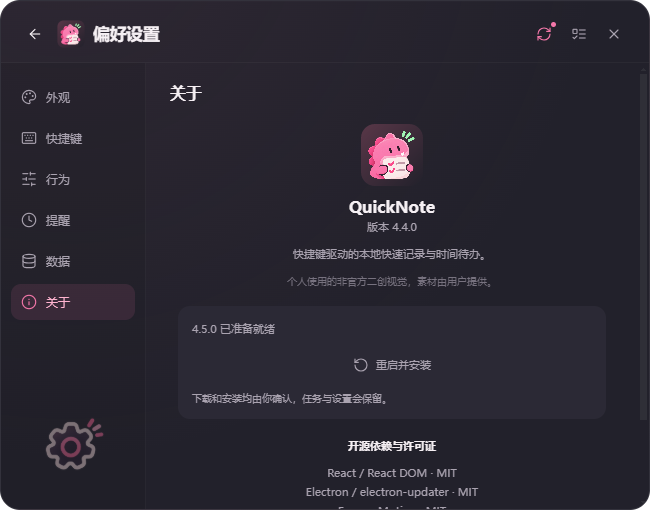
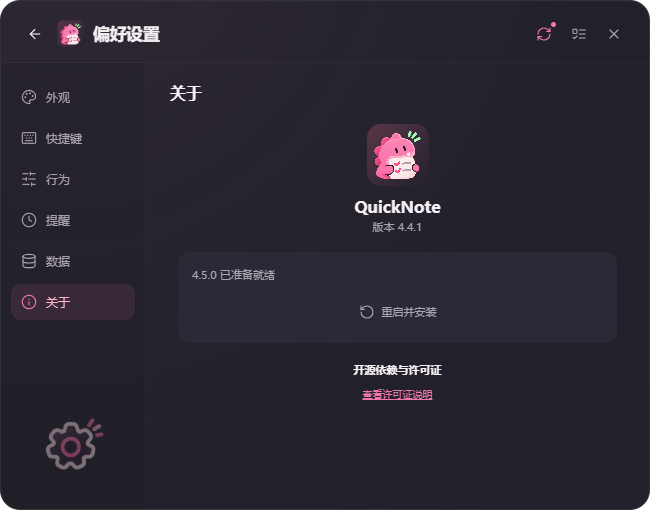
Add preferred default page and trim settings copy

diff --git a/src/main.tsx b/src/main.tsx
@@ -29,7 +29,7 @@ const editor=<textarea ref={input} rows={2} placeholder={cfg.capturePlaceholder|
 function row(n:Note,compact=false){return <motion.div layout data-task={n.id} className={'task '+(n.done?'done ':'')+(n.isPinned?'pinned':'')} key={n.id} initial={{opacity:0,y:4}} animate={{opacity:1,y:0}} exit={{opacity:0,height:0}} transition={{duration:.18}} onContextMenu={e=>{e.preventDefault();api.call('context',n.id)}}><button className="check" title="切换完成" onClick={()=>toggle(n.id)}>{n.done&&<Check/>}</button><div className="task-body"><p>{n.isPinned&&<Pin className="pink"/>}{n.text}</p><small>{n.dueDate?<><CalendarDays/> {n.dueDate}{n.dueDate<day(now)&&!n.done?' · 计划待重排':''}</>:new Date(n.created).toLocaleString('zh-CN',{month:'numeric',day:'numeric',hour:'2-digit',minute:'2-digit'})}</small></div><div className="actions"><button title={n.isPinned?'取消置顶':'重要置顶'} onClick={()=>pin(n.id)}><Pin/></button>{!compact&&<button title="计划日期" onClick={()=>SD(schedule===n.id?'':n.id)}><CalendarDays/></button>}<button title="编辑" onClick={()=>start(n.id)}><Pencil/></button><button title="复制" onClick={()=>{api.call('copy',n.text);msg('已复制')}}><Copy/></button><button title="删除" onClick={()=>remove(n.id)}><Trash2/></button></div></motion.div>}
 async function updateAction(action:string){try{await flush();const d=await api.call(action);C((prev:any)=>({...prev,update:d.update}))}catch(e){msg(String(e))}}
 return <motion.main data-theme={theme} className={mode} animate={{opacity:visible?1:0,scale:visible?1:.99,y:visible?0:-4}} transition={{duration:.2,ease:'easeOut'}}><header><div className="brand">{mode!=='capture'&&<button title="快速记录" onClick={()=>switchView('capture')}><ArrowLeft/></button>}<img src={theme==='light'?'./app-icon-light.png':'./app-icon.png'} alt=""/><span>{mode==='capture'?<>Quick<span className="pink">Note</span></>:mode==='tasks'?'待办事项':'偏好设置'}</span>{mode==='tasks'&&<small>{notes.filter(n=>!n.done).length}</small>}</div><div className="tools">{['available','downloading','downloaded','error'].includes(cfg.update?.status)&&<button className="update-indicator" title={cfg.update.status==='error'?'更新检查失败 · 点击重试':'QuickNote 有更新 · 点击查看'} onClick={()=>{ST('about');switchView('settings')}}><RefreshCw/><i/></button>}{mode!=='tasks'&&<button title="查看待办" onClick={()=>switchView('tasks')}><ListTodo/></button>}{mode==='tasks'&&<button title="打开日历" onClick={()=>B(filter==='日历'?'全部':'日历')}><CalendarDays/></button>}{mode!=='settings'&&<button title="设置" onClick={()=>switchView('settings')}><Settings/></button>}<button title="关闭" onClick={()=>{flush();api.call('hide')}}><X/></button></div></header>
-{mode==='capture'?<section className="capture-body"><img className="capture-mascot" src="./brand/mascot.png" alt=""/><div className={'capture-input '+(toast?.text==='已保存'?'saved':'')}>{editor}<DatesFields compact value={creation} onChange={changeCreation}/></div></section>:mode==='tasks'?<TimeWorkspace notes={notes} filter={filter} onFilter={v=>{B(v);let dueDate:string|null=null;const d=new Date();if(v==='今天')dueDate=day(d);if(v==='即将到来')dueDate=tomorrow(d);if(v==='日历')dueDate=calendarDate;changeCreation({...emptyDates,dueDate,schedule:v==='以后'?'later':v==='任意时间'?'anytime':'inbox'})}} onEdit={TE} onToggle={toggle} onPin={pin} onDelete={remove} onCopy={s=>{api.call('copy',s);msg('已复制')}} editor={<div className="task-capture">{editor}<DatesFields compact value={creation} onChange={changeCreation}/></div>} now={now} horizon={cfg.deadlineHorizon||3} onDate={d=>{CAL(d);changeCreation({...emptyDates,dueDate:d})}} onNew={openNewTask}/>:<div className="split"><nav>{settingTabs.map(([key,label,Icon])=><button key={key} className={settingsTab===key?'selected':''} onClick={()=>ST(key)}><Icon/>{label}</button>)}<img className="nav-mascot" src="./brand/settings.png" alt=""/></nav><section className="settings-body"><h2>{settingTabs.find(t=>t[0]===settingsTab)?.[1]}</h2>{settingsTab==='appearance'?<><p className="muted">让 QuickNote 与你的桌面相处融洽。</p><div className="theme-choices">{[['dark','深色',Moon],['light','浅色',Sun],['system','跟随系统',Monitor]].map(([v,label,Icon]:any)=><button key={v} className={cfg.theme===v?'chosen':''} onClick={()=>setting({theme:v})}><Icon/><span>{label}</span></button>)}</div><label className="placeholder-setting">快速记录占位文字<input maxLength={100} aria-label="快速记录占位文字" defaultValue={cfg.capturePlaceholder||'记录一件未完成的事情...'} onBlur={e=>setting({capturePlaceholder:e.target.value.trim()||'记录一件未完成的事情...'})}/><small>编辑后离开输入框即保存</small></label><div className="brand-preview"><img src="./brand/mascot.png" alt=""/><div><b>轻轻记下，慢慢完成。</b><p>QuickNote · Pink Edition</p></div></div></>:settingsTab==='shortcuts'?<><p className="muted">点击组合键，再按下新的快捷键。</p>{[['shortcut','快速记录',Pencil],['tasksShortcut','查看待办',ListTodo]].map(([key,label,Icon]:any)=>{const status=cfg.shortcutStatus?.[key];return <div className="shortcut-card" key={key}><div className="setting-row"><span><Icon/>{label}</span><button className={'keycap '+(recording===key?'listening':'')} onClick={()=>R(key)} onKeyDown={e=>{if(recording===key)hotkey(e,key)}}>{recording===key?'请按下组合键…':cfg[key]?.replaceAll('Control','Ctrl')}</button></div><div className={'registration '+(status?.registered?'success':status?.status==='conflict'?'warning':'error')}>{status?.registered?<Check/>:<Info/>}{status?.registered?'已成功注册':status?.message||'未注册'}</div></div>})}<button className="secondary" onClick={()=>api.call('retry-shortcuts').then(load).catch(e=>msg(String(e)))}><RefreshCw/>重新检测并注册</button></>:settingsTab==='behavior'?<>{[['startup','开机启动'],['background','启动后后台运行'],['keepOpen','保存后保持窗口打开'],['hideOnBlur','点击窗口外部自动隐藏']].map(([key,label])=><div className="setting-row option" key={key}><span>{label}</span><button role="switch" aria-label={label} aria-checked={!!cfg[key]} className={'toggle '+(cfg[key]?'on':'')} onClick={()=>setting({[key]:!cfg[key]})}><span/></button></div>)}</>:settingsTab==='reminders'?<><p className='muted'>提醒仅在 QuickNote 运行时发送；退出后不会发送。重启后恢复待触发提醒。</p><div className='setting-row option'><span>启用 Windows 通知</span><button role='switch' aria-label='启用通知' aria-checked={!!cfg.notificationsEnabled} className={'toggle '+(cfg.notificationsEnabled?'on':'')} onClick={()=>setting({notificationsEnabled:!cfg.notificationsEnabled})}><span/></button></div><label className='setting-row'>即将截止范围（自然日）<input type='number' min='1' max='14' value={cfg.deadlineHorizon||3} onChange={e=>setting({deadlineHorizon:Number(e.target.value)})}/></label><button className='secondary' onClick={()=>api.call('notification-test').then(()=>msg('已请求发送通知，请检查系统通知设置')).catch(e=>msg(String(e)))}>测试通知</button></>:settingsTab==='data'?<><div className="backup-info"><Archive/><div><b>每日自动备份</b><p>最近备份：{cfg.lastBackup||'尚无备份'} · 保留最近 7 份</p></div></div>{cfg.backupWarning&&<p className="warning">{cfg.backupWarning}</p>}<div className="data-grid">{[['export','导出全部数据',Archive],['import','导入记录',Database],['restore','从备份恢复',RotateCcw],['path','打开保存位置',FolderOpen]].map(([a,label,Icon]:any)=><button key={a} onClick={()=>dataAction(a)}><Icon/>{label}</button>)}</div><p className="muted">恢复前校验版本与记录，并备份当前数据。导入只合并任务；恢复会替换任务、设置与草稿。</p></>:<div className="about"><img src={theme==='light'?'./app-icon-light.png':'./app-icon.png'} alt="QuickNote"/><h2>QuickNote</h2><span>版本 {cfg.version||'4.0.0'}</span><p>快捷键驱动的本地快速记录与时间待办。</p><small>个人使用的非官方二创视觉，素材由用户提供。</small><UpdateCard state={cfg.update||{status:'idle'}} run={updateAction}/><h3>开源依赖与许可证</h3><p>React / React DOM · MIT<br/>Electron / electron-updater · MIT<br/>Framer Motion · MIT<br/>Lucide · ISC<br/>Vite · MIT / TypeScript · Apache-2.0</p><a href="./licenses.txt" target="_blank" onClick={e=>{e.preventDefault();api.call('licenses').catch(e=>msg(String(e)))}}>查看许可证说明</a></div>}</section></div>}
+{mode==='capture'?<section className="capture-body"><img className="capture-mascot" src="./brand/mascot.png" alt=""/><div className={'capture-input '+(toast?.text==='已保存'?'saved':'')}>{editor}<DatesFields compact value={creation} onChange={changeCreation}/></div></section>:mode==='tasks'?<TimeWorkspace notes={notes} filter={filter} onFilter={v=>{B(v);let dueDate:string|null=null;const d=new Date();if(v==='今天')dueDate=day(d);if(v==='即将到来')dueDate=tomorrow(d);if(v==='日历')dueDate=calendarDate;changeCreation({...emptyDates,dueDate,schedule:v==='以后'?'later':v==='任意时间'?'anytime':'inbox'})}} onEdit={TE} onToggle={toggle} onPin={pin} onDelete={remove} onCopy={s=>{api.call('copy',s);msg('已复制')}} editor={<div className="task-capture">{editor}<DatesFields compact value={creation} onChange={changeCreation}/></div>} now={now} horizon={cfg.deadlineHorizon||3} onDate={d=>{CAL(d);changeCreation({...emptyDates,dueDate:d})}} onNew={openNewTask}/>:<div className="split"><nav>{settingTabs.map(([key,label,Icon])=><button key={key} className={settingsTab===key?'selected':''} onClick={()=>ST(key)}><Icon/>{label}</button>)}<img className="nav-mascot" src="./brand/settings.png" alt=""/></nav><section className="settings-body"><h2>{settingTabs.find(t=>t[0]===settingsTab)?.[1]}</h2>{settingsTab==='appearance'?<><div className="theme-choices">{[['dark','深色',Moon],['light','浅色',Sun],['system','跟随系统',Monitor]].map(([v,label,Icon]:any)=><button key={v} className={cfg.theme===v?'chosen':''} onClick={()=>setting({theme:v})}><Icon/><span>{label}</span></button>)}</div><label className="placeholder-setting">快速记录占位文字<input maxLength={100} aria-label="快速记录占位文字" defaultValue={cfg.capturePlaceholder||'记录一件未完成的事情...'} onBlur={e=>setting({capturePlaceholder:e.target.value.trim()||'记录一件未完成的事情...'})}/></label><div className="brand-preview"><img src="./brand/mascot.png" alt=""/><div><b>轻轻记下，慢慢完成。</b><p>QuickNote · Pink Edition</p></div></div></>:settingsTab==='shortcuts'?<><p className="muted">点击组合键，再按下新的快捷键。</p>{[['shortcut','快速记录',Pencil],['tasksShortcut','查看待办',ListTodo]].map(([key,label,Icon]:any)=>{const status=cfg.shortcutStatus?.[key];return <div className="shortcut-card" key={key}><div className="setting-row"><span><Icon/>{label}</span><button className={'keycap '+(recording===key?'listening':'')} onClick={()=>R(key)} onKeyDown={e=>{if(recording===key)hotkey(e,key)}}>{recording===key?'请按下组合键…':cfg[key]?.replaceAll('Control','Ctrl')}</button></div><div className={'registration '+(status?.registered?'success':status?.status==='conflict'?'warning':'error')}>{status?.registered?<Check/>:<Info/>}{status?.registered?'已成功注册':status?.message||'未注册'}</div></div>})}<button className="secondary" onClick={()=>api.call('retry-shortcuts').then(load).catch(e=>msg(String(e)))}><RefreshCw/>重新检测并注册</button></>:settingsTab==='behavior'?<><label className="setting-row option">默认打开<select aria-label="默认打开" value={cfg.defaultView||'tasks'} onChange={e=>setting({defaultView:e.target.value})}><option value="tasks">待办事项</option><option value="capture">快速记录</option></select></label>{[['startup','开机启动'],['background','启动后后台运行'],['keepOpen','保存后保持窗口打开'],['hideOnBlur','点击窗口外部自动隐藏']].map(([key,label])=><div className="setting-row option" key={key}><span>{label}</span><button role="switch" aria-label={label} aria-checked={!!cfg[key]} className={'toggle '+(cfg[key]?'on':'')} onClick={()=>setting({[key]:!cfg[key]})}><span/></button></div>)}</>:settingsTab==='reminders'?<><p className='muted'>提醒仅在 QuickNote 运行时发送；退出后不会发送。重启后恢复待触发提醒。</p><div className='setting-row option'><span>启用 Windows 通知</span><button role='switch' aria-label='启用通知' aria-checked={!!cfg.notificationsEnabled} className={'toggle '+(cfg.notificationsEnabled?'on':'')} onClick={()=>setting({notificationsEnabled:!cfg.notificationsEnabled})}><span/></button></div><label className='setting-row'>即将截止范围（自然日）<input type='number' min='1' max='14' value={cfg.deadlineHorizon||3} onChange={e=>setting({deadlineHorizon:Number(e.target.value)})}/></label><button className='secondary' onClick={()=>api.call('notification-test').then(()=>msg('已请求发送通知，请检查系统通知设置')).catch(e=>msg(String(e)))}>测试通知</button></>:settingsTab==='data'?<><div className="backup-info"><Archive/><div><b>每日自动备份</b><p>最近备份：{cfg.lastBackup||'尚无备份'} · 保留最近 7 份</p></div></div>{cfg.backupWarning&&<p className="warning">{cfg.backupWarning}</p>}<div className="data-grid">{[['export','导出全部数据',Archive],['import','导入记录',Database],['restore','从备份恢复',RotateCcw],['path','打开保存位置',FolderOpen]].map(([a,label,Icon]:any)=><button key={a} onClick={()=>dataAction(a)}><Icon/>{label}</button>)}</div><p className="muted">恢复前校验版本与记录，并备份当前数据。导入只合并任务；恢复会替换任务、设置与草稿。</p></>:<div className="about"><img src={theme==='light'?'./app-icon-light.png':'./app-icon.png'} alt="QuickNote"/><h2>QuickNote</h2><span>版本 {cfg.version||'4.0.0'}</span><UpdateCard state={cfg.update||{status:'idle'}} run={updateAction}/><h3>开源依赖与许可证</h3><a href="./licenses.txt" target="_blank" onClick={e=>{e.preventDefault();api.call('licenses').catch(e=>msg(String(e)))}}>查看许可证说明</a></div>}</section></div>}
 {taskEdit&&<TaskEditor key={taskEdit.id||'new'} task={taskEdit} onSave={saveTask} onClose={()=>TE(null)}/>}<AnimatePresence>{toast&&<motion.div className="toast" initial={{opacity:0,y:12}} animate={{opacity:1,y:0}} exit={{opacity:0,y:8}}><Check/><span>{toast.text}</span>{toast.undo&&<button onClick={restoreUndo}><Undo2/>撤销</button>}<button title="关闭提示" onClick={()=>F(null)}><X/></button></motion.div>}</AnimatePresence></motion.main>};createRoot(document.getElementById('root')!).render(<App/>);
 
 

diff --git a/src/UpdateCard.tsx b/src/UpdateCard.tsx
@@ -3,6 +3,6 @@ import {RefreshCw,Download,RotateCcw} from 'lucide-react';
 export type UpdateState={status:string;version?:string|null;percent?:number;error?:string|null};
 export function UpdateCard({state,run}:{state:UpdateState;run:(action:string)=>void}) {
   const s=state.status,busy=['checking','downloading','installing'].includes(s);
-  const message=s==='disabled'?'开发模式不检查更新':s==='checking'?'正在检查更新…':s==='current'?'已是最新版本':s==='available'?`发现新版本 ${state.version}`:s==='downloading'?`正在下载 ${state.percent||0}%`:s==='downloaded'?`${state.version} 已准备就绪`:s==='installing'?'正在启动安装程序…':s==='error'?state.error:'启动后自动检查，也可手动检查更新';
-  return <section className="update-card" aria-label="软件更新"><p aria-live="polite">{message}</p>{s==='downloading'&&<progress aria-label="更新下载进度" max={100} value={state.percent||0}/>}{s!=='disabled'&&<button className="secondary" disabled={busy} onClick={()=>run(s==='available'?'update-download':s==='downloaded'?'update-install':'update-check')}>{s==='available'?<Download/>:s==='downloaded'?<RotateCcw/>:<RefreshCw/>}{s==='available'?'下载更新':s==='downloaded'?'重启并安装':s==='checking'?'正在检查…':s==='downloading'?'正在下载…':'检查更新'}</button>}<small>下载和安装均由你确认，任务与设置会保留。</small></section>;
+  const message=s==='disabled'?'开发模式':s==='checking'?'正在检查更新…':s==='current'?'已是最新版本':s==='available'?`发现新版本 ${state.version}`:s==='downloading'?`正在下载 ${state.percent||0}%`:s==='downloaded'?`${state.version} 已准备就绪`:s==='installing'?'正在启动安装程序…':s==='error'?state.error:'';
+  return <section className="update-card" aria-label="软件更新">{message&&<p aria-live="polite">{message}</p>}{s==='downloading'&&<progress aria-label="更新下载进度" max={100} value={state.percent||0}/>}{s!=='disabled'&&<button className="secondary" disabled={busy} onClick={()=>run(s==='available'?'update-download':s==='downloaded'?'update-install':'update-check')}>{s==='available'?<Download/>:s==='downloaded'?<RotateCcw/>:<RefreshCw/>}{s==='available'?'下载更新':s==='downloaded'?'重启并安装':s==='checking'?'正在检查…':s==='downloading'?'正在下载…':'检查更新'}</button>}</section>;
 }

diff --git a/src/time.css b/src/time.css
@@ -8,3 +8,5 @@
 .deadline-view>.list{padding-top:12px}.deadline-group{border-left:0;margin-left:0;padding-left:0;padding-bottom:12px}.deadline-group h3{gap:8px;font-size:12px;color:var(--muted);padding-bottom:9px;border-bottom:1px solid var(--line);margin:10px 0 5px}.deadline-group.deadline-overdue h3{color:#dc718b}.deadline-group h3 .node{display:none}.deadline-group h3 small{margin-left:auto;background:transparent;color:var(--subtle);padding:0}.deadline-group .task{min-height:40px;align-items:flex-start;padding:10px 8px}.deadline-group .task-body{padding-right:6px}.deadline-remaining{font-size:10px;color:var(--muted);white-space:nowrap;line-height:19px;flex-shrink:0;font-variant-numeric:tabular-nums}.deadline-remaining.deadline-overdue{color:#dc718b}.deadline-group .task:hover .deadline-remaining,.deadline-group .task:focus-within .deadline-remaining{visibility:hidden}.today-star{color:var(--accent);font-size:16px;line-height:1}.when-shortcuts .today-star{color:var(--accent);font-size:19px}.anytime-list{padding-top:4px}
 
 .update-card{margin:18px 0;text-align:left;background:var(--card);padding:14px;border-radius:12px}.update-card p{margin:0 0 10px}.update-card small{display:block;margin-top:10px;font-size:10px;color:var(--muted)}.update-card progress{width:100%;height:5px;accent-color:var(--accent);margin-bottom:10px}.update-card .secondary{margin:0 auto}.update-indicator{position:relative;color:var(--accent)}.update-indicator i{position:absolute;right:3px;top:3px;width:5px;height:5px;border-radius:50%;background:var(--accent)}
+
+.setting-row select{font:inherit;color:var(--fg);background:var(--card);border:1px solid var(--line);border-radius:8px;padding:6px 9px;outline-color:var(--accent)}

diff --git a/docs/TEST_REPORT.md b/docs/TEST_REPORT.md
@@ -1,9 +1,9 @@
-# QuickNote 4.4.0 回归测试
+# QuickNote 4.4.1 回归测试
 
 日期：2026-11-08。构建：npm run build。回归：npm test。全部使用独立临时 userData，不修改真实记录。
 
 - 13 项 Node 单元测试：旧数据迁移、草稿/原子存储、备份保留及恢复校验、计划/截止独立、截止时刻边界、提醒去重、本地日期跨周跨年、日期摘要、月份分组、自然日倒计时、任意时间汇总。
-- 11 组 Electron 实际运行检查：updates-feed、updates-ui、deadline-simple、date-labels、when、features、schedule、deadline、popover、restore4、check-menu。
+- 12 组 Electron 实际运行检查：default-view、updates-feed、updates-ui、deadline-simple、date-labels、when、features、schedule、deadline、popover、restore4、check-menu。
 - 新版检查：Deadline 无顶部搜索/筛选/排序，逾期置首、月份横线分组、右侧倒计时、无重复日期元信息；任意时间平铺显示全部未完成任务（包括以后和已有计划）；Today 星标出现在日期选择/月历，选中后仍写入正确日期；完成后排除并保留原记录。
 - 原有检查：快速记录/连续输入、组合输入保护、草稿/自定义占位文字持久化、右下角日期浮层和左侧标签、分类默认日期、全局快捷键注册与回调切换、焦点、Esc/失焦、三主题、搜索、复制、置顶、编辑、完成/删除撤销、导入导出与确认恢复、托盘菜单图标。
 - 新增的窗口测试显式销毁测试窗口后退出，避免收尾阶段的窗口关闭拦截影响后续测试；输入测试等待 React 接收文本后再发送 Enter。
@@ -26,3 +26,11 @@
 ![更新界面示例](images/updates.png)
 
 发布后公开 GitHub 更新源实测通过：按4.3.1版本身份读取打包配置，识别4.4.0及正确安装包和SHA512元数据；未执行覆盖安装。
+
+4.4.1文案清理：TypeScript/Vite构建、现有日期标签/占位文字及更新界面Electron检查；未改任务结构、更新逻辑或许可证文件。
+
+4.4.1新增默认打开选项：持久化、旧数据兼容、托盘点击/重复启动与明确入口独立测试。
+
+默认页面回归及完整测试通过：13项单元测试、12组Electron检查。修复显示后立即退出时延迟焦点回调访问已销毁窗口的问题。
+
+![默认打开](images/behavior.png)

diff --git a/README.md b/README.md
@@ -1,6 +1,6 @@
 # QuickNote
 
-Windows 本地快速记录与时间待办工具。Electron + React + TypeScript + Vite，无账号和云同步。当前版本 **4.4.0**。
+Windows 本地快速记录与时间待办工具。Electron + React + TypeScript + Vite，无账号和云同步。当前版本 **4.4.1**。
 
 ![Quick Capture](docs/images/capture.png)
 
@@ -30,7 +30,7 @@ npm run build
 npm run dist
 ```
 
-NSIS 输出 release/4.4.0，安装包与 node_modules/dist 均不提交 Git。未配置代码签名。图标构建：node assets/build4.cjs。
+NSIS 输出 release/4.4.1，安装包与 node_modules/dist 均不提交 Git。未配置代码签名。图标构建：node assets/build4.cjs。
 
 ## 本地数据
 
@@ -83,3 +83,9 @@ node_modules/.bin/electron tests/github-update-check.cjs
 ```
 
 实现参照 [electron-builder v26 自动更新文档](https://www.electron.build/v26/docs/features/auto-update/)。
+
+4.4.1：精简外观与关于页的说明性小字，保留更新状态、操作与许可证入口。
+
+设置→行为→默认打开：可选择待办事项或快速记录（默认待办）。点击托盘图标、重复启动或非后台启动使用此偏好；两个全局快捷键及托盘明确入口不受影响。
+
+![默认打开设置](docs/images/behavior.png)
